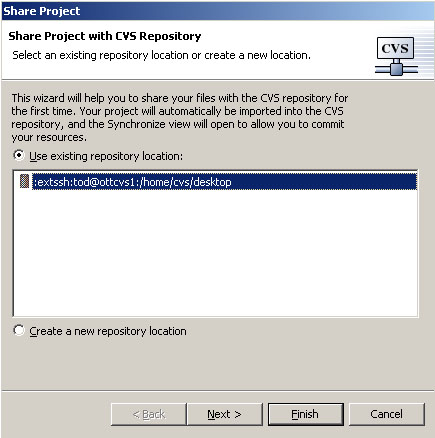
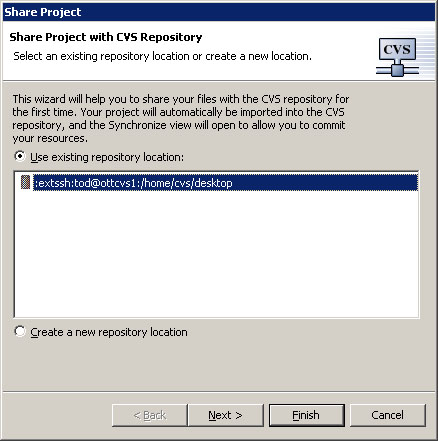
Fixed screenshots

Changed region(s): [[0.0, 0.0, 1.0, 1.0]]

diff --git a/bundles/org.eclipse.platform.doc.user/gettingStarted/qs-64c_catch_sync_view.htm b/bundles/org.eclipse.platform.doc.user/gettingStarted/qs-64c_catch_sync_view.htm
@@ -14,7 +14,7 @@ Synchronize view</h3>
   will see that we have started in Incoming Mode (see #1). This is because there 
   are changes in the repository that we should first integrate before committing 
   our own changes.</p>
-<p CLASS="Para"><img align="texttop" border="0" src="../images/Image83_jane2b.jpg" width="556" height="411" alt="Incoming mode"></p>
+<p CLASS="Para"><img align="texttop" border="0" src="../images/Image83_jane2b.jpg" width="522" height="485" alt="Incoming mode"></p>
 <p CLASS="Para">It is important to first update to changes made to the repository, 
   retest with those changes loaded locally with your soon-to-be-committed changes 
   and then commit your changes.&nbsp; By first taking the latest repository changes, 

diff --git a/bundles/org.eclipse.platform.doc.user/gettingStarted/qs-61f_syncproject.htm b/bundles/org.eclipse.platform.doc.user/gettingStarted/qs-61f_syncproject.htm
@@ -36,7 +36,7 @@ In the Navigator view select the project JanesTeamProject.</P>
       opens. In the next section we will see how to use this view to release our 
       work to the repository. 
       <blockquote> 
-  <p><img align="texttop" border="0" src="../images/Image82_repo_team.jpg" width="545" height="506" alt="Team Perspective"></p>
+  <p><img align="texttop" border="0" src="../images/Image82_repo_team.jpg" width="428" height="387" alt="Team Perspective"></p>
 </blockquote>
   </li>
 </ol>
